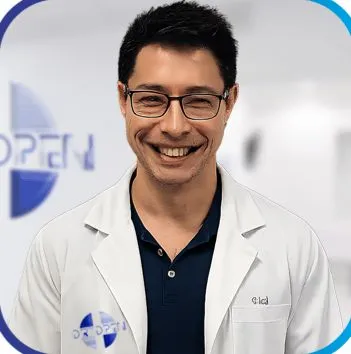
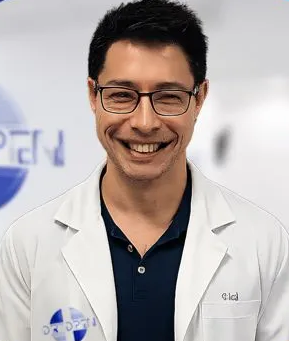
Update branding and fix image URLs across various components
- Changed references from OrtoQBank to OrtoClub in the footer and FAQ section for consistent branding.
- Updated webhook configuration examples to reflect the new app name.
- Fixed image URLs for team members to use PNG format for better compatibility.
- Minor adjustments to layout and styling in the products section and header for improved user experience.

diff --git a/app/components/team-section.tsx b/app/components/team-section.tsx
@@ -39,7 +39,7 @@ const staffMembers: StaffMember[] = [
   {
     id: 4,
     name: 'Diogo Kenzo Takazono',
-    imageUrl: '/diogo-kenzo.webp',
+    imageUrl: '/diogo-kenzo.png',
     description: [
       'Cirurgia da Mão e Microcirurgia (IOT-HCFMUSP)',
       'Ortopedista pelo Instituto de Ortopedia e Traumatologia do HC-FMUSP',
@@ -49,7 +49,7 @@ const staffMembers: StaffMember[] = [
   {
     id: 5,
     name: 'Thales Augusto Tomé',
-    imageUrl: '/thales-augusto.webp',
+    imageUrl: '/thales-augusto.png',
     description: [
       'Cirurgia da Mão e Microcirurgia (IOT-HCFMUSP)',
       'Ortopedista pelo Instituto de Ortopedia e Traumatologia do HC-FMUSP',
@@ -90,7 +90,7 @@ const staffMembers: StaffMember[] = [
   {
     id: 9,
     name: 'Gil Goulart Choi',
-    imageUrl: '/gil-goulart.webp',
+    imageUrl: '/gil-goulart.png',
     description: [
       'Cirurgia da Coluna Vertebral (IOT-HCFMUSP)',
       'Ortopedista pelo Instituto de Ortopedia e Traumatologia do HC-FMUSP',
@@ -100,7 +100,7 @@ const staffMembers: StaffMember[] = [
   {
     id: 10,
     name: 'Gustavo Lage',
-    imageUrl: '/gustavo-lage.webp',
+    imageUrl: '/gustavo-lage.png',
     description: [
       'Cirurgia do Quadril (IOT-HCFMUSP)',
       'Ortopedista pelo Instituto de Ortopedia e Traumatologia do HC-FMUSP',
@@ -110,7 +110,7 @@ const staffMembers: StaffMember[] = [
   {
     id: 11,
     name: 'Lucas Capello Smarieri',
-    imageUrl: '/lucas-capello.webp',
+    imageUrl: '/lucas-capello.png',
     description: [
       'Cirurgia do Ombro e Cotovelo (IOT-HCFMUSP)',
       'Ortopedista pelo Instituto de Ortopedia e Traumatologia do HC-FMUSP',
@@ -151,7 +151,7 @@ function StaffCard({ member, fullWidth = false, smallMobile = false }: { member:
           alt={`Foto de ${member.name}`}
           width={280}
           height={280}
-          className={`object-cover ${imageSize}`}
+          className={`object-cover ${smallMobile ? 'object-top' : ''} ${imageSize}`}
         />
       </div>
       <div className="space-y-1 p-2 sm:p-4">

diff --git a/app/api/webhooks/asaas-proxy/route.ts b/app/api/webhooks/asaas-proxy/route.ts
@@ -9,12 +9,10 @@ import { NextRequest, NextResponse } from "next/server";
  * Configuration:
  * - ASAAS_WEBHOOK_SECRET: The secret token for webhook validation
  * - ASAAS_APP_ROUTES: JSON mapping of app slugs to webhook URLs
- *   Example: {"ortoqbank":"https://deploy1.convex.site/webhooks/asaas","teot":"https://deploy1.convex.site/webhooks/asaas","derma":"https://deploy2.convex.site/webhooks/asaas"}
+ *   Example: {"ortoclub":"https://deploy1.convex.site/webhooks/asaas","ortoclub":"https://deploy1.convex.site/webhooks/asaas","derma":"https://deploy2.convex.site/webhooks/asaas"}
  *
  * Or use individual environment variables:
- * - WEBHOOK_URL_ortoqbank: Webhook URL for ortoqbank app
- * - WEBHOOK_URL_teot: Webhook URL for teot app (same deployment as ortoqbank)
- * - WEBHOOK_URL_derma: Webhook URL for derma app (different deployment)
+ * - WEBHOOK_URL_ortoclub: Webhook URL for ortoclub app
  */
 
 // Map app slugs to their Convex webhook URLs

diff --git a/app/components/products-section.tsx b/app/components/products-section.tsx
@@ -115,7 +115,7 @@ export default function ProductsSection() {
                                 {section.products.map((product, index) => (
                                     <div key={index} className="flex flex-col gap-3 md:gap-4 w-[calc(50%-0.5rem)] md:w-[calc(33.333%-1rem)]">
                                         <Card className="overflow-hidden hover:shadow-lg transition-shadow p-0 border-0">
-                                            <div className="relative w-full aspect-[3/4] sm:aspect-[4/5]">
+                                            <div className="relative w-full aspect-[3/4]">
                                                 <Image
                                                     src={product.image}
                                                     alt={product.title}

diff --git a/components/header.tsx b/components/header.tsx
@@ -164,7 +164,7 @@ export default function Header() {
                                         </Button>
                                     </a>
                                 ) : isVipOnly(product.href) ? (
-                                    <Button 
+                                    <Button
                                         className="w-full text-white font-semibold bg-brand-blue hover:bg-brand-blue/90 text-sm"
                                         onClick={() => handleWaitlistClick(product.title)}
                                     >

diff --git a/app/components/faq-section.tsx b/app/components/faq-section.tsx
@@ -204,7 +204,7 @@ export default function FAQ() {
             answer: (
                 <div className="space-y-2">
                     <p>
-                        O OrtoQBank é um curso individual. A plataforma dá feedback baseado
+                        O OrtoClub contém um cursos individual. A plataforma dá feedback baseado
                         no desempenho do aluno, e portanto não é recomendado ou permitido o
                         compartilhamento de acesso.
                     </p>

diff --git a/app/page.tsx b/app/page.tsx
@@ -21,7 +21,7 @@ export default function Home() {
       </main>
       <footer className="bg-brand-blue mt-auto py-4 text-white">
         <div className="container mx-auto px-4 text-center">
-          <p>&copy; 2025 OrtoQBank. Todos os direitos reservados.</p>
+          <p>&copy; 2025 OrtoClub. Todos os direitos reservados.</p>
         </div>
       </footer>
     </div>
